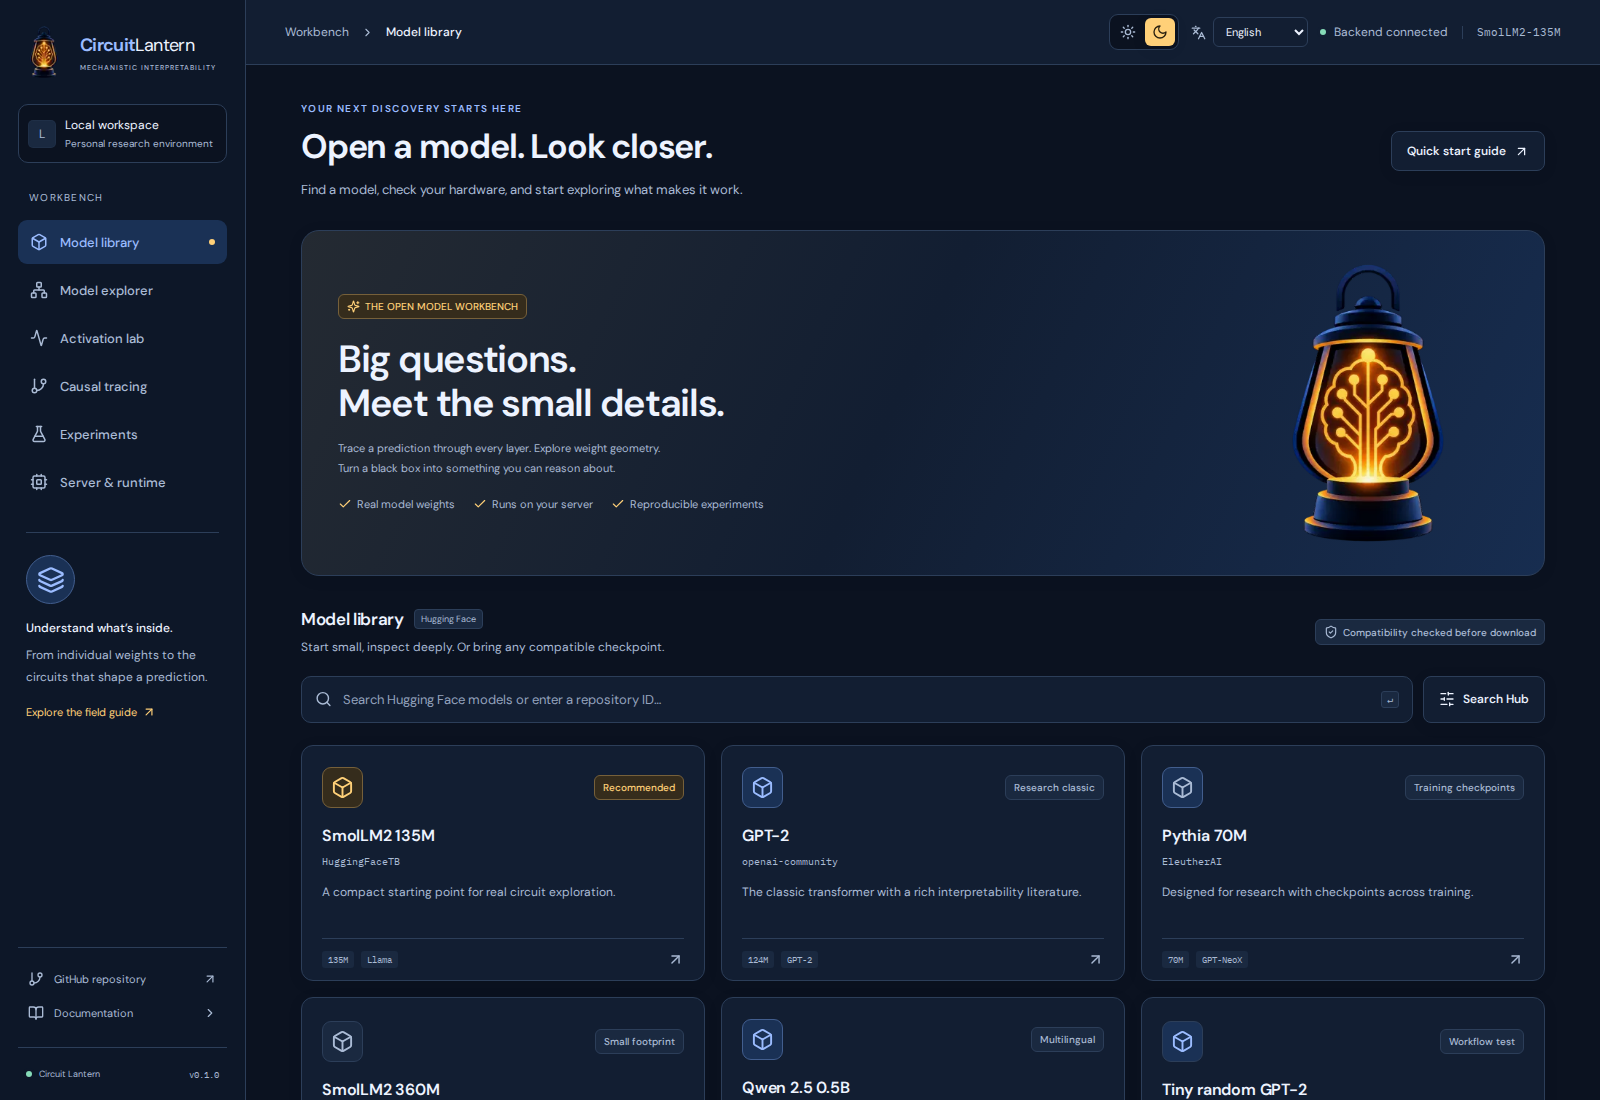
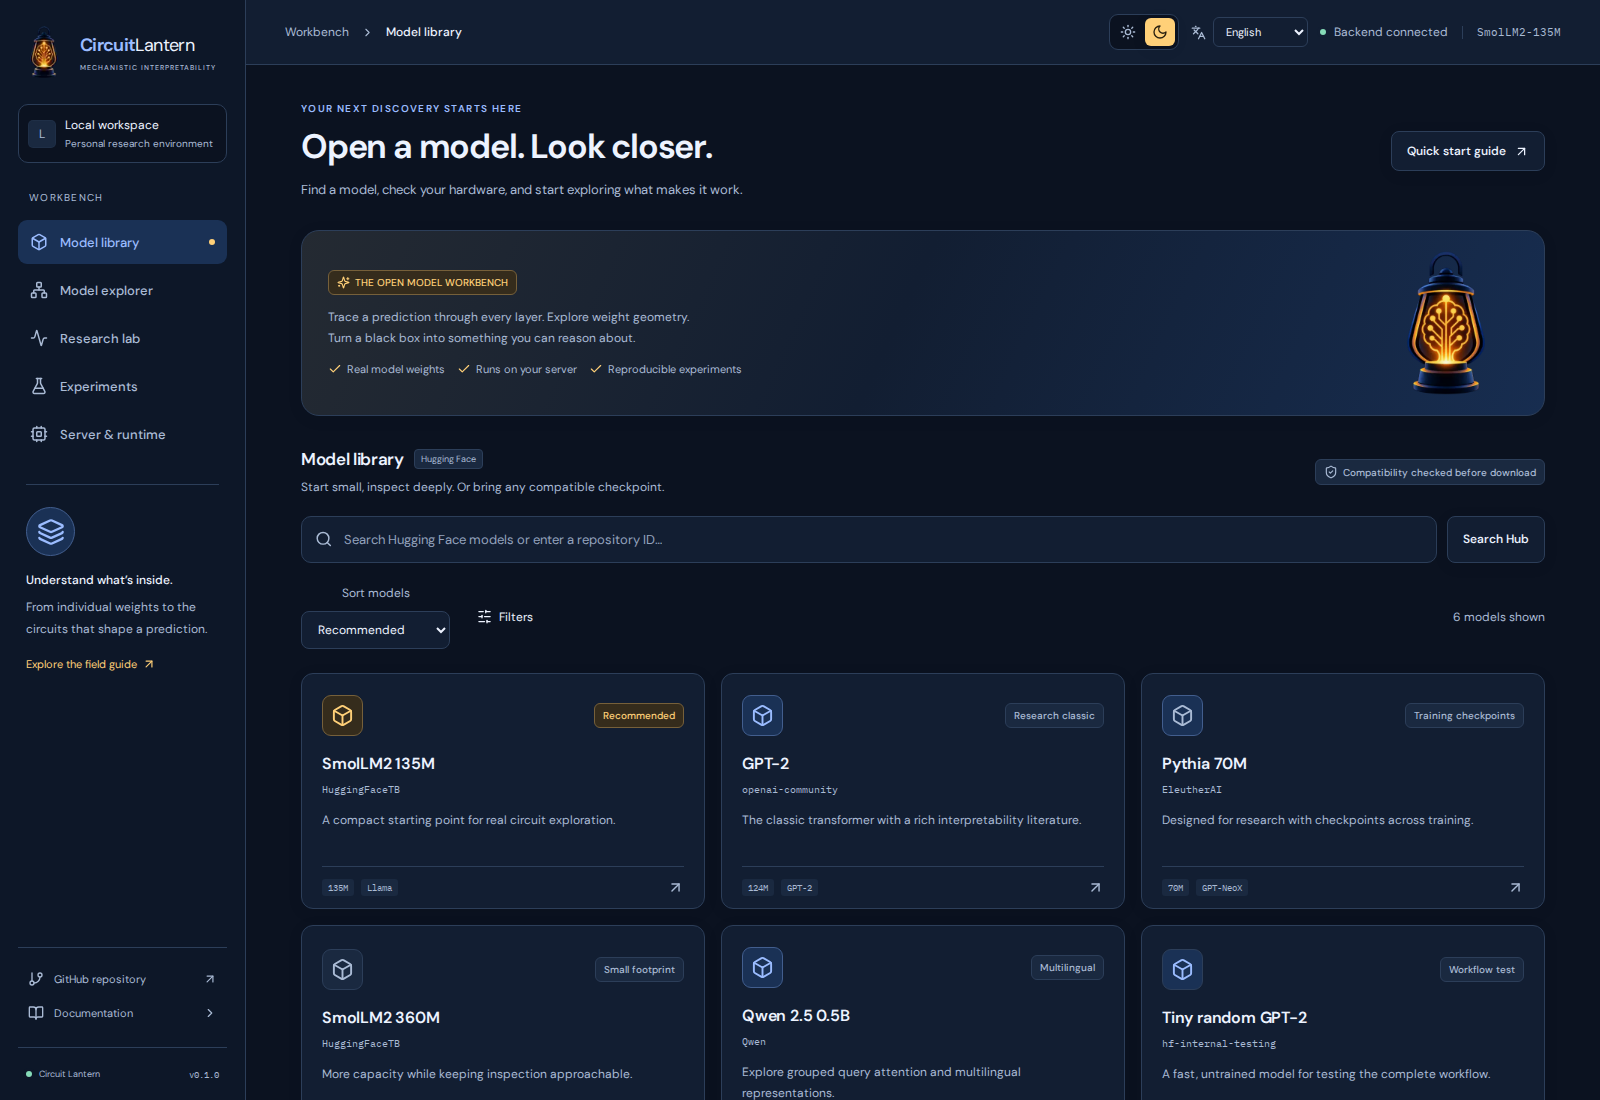
Showcase checkpoint and sparse feature workflows

diff --git a/README.md b/README.md
@@ -13,11 +13,14 @@ Check the hardware, load a model, follow a prompt through its layers and keep th
 
 ## What you can investigate
 
-- **Hardware fit.** Check available RAM, VRAM, disk space, GPU architecture and execution kernels before downloading. Quantization support depends on the device and runtime, not just model size.
-- **Weight geometry.** Zoom into transformer blocks, select logical matrices and inspect singular values, spectral radius, norms, rank, distributions and spectral energy.
-- **Prompt traces.** Trace residual streams, token activation norms, intermediate predictions, full vocabulary confidence, entropy and attention routing. Explore individual prompt positions without another forward pass.
-- **Causal interventions.** Restore clean residual activations in corrupted prompts or zero individual attention heads. Inspect target score changes, recovery and distribution divergence, with completed measurements retained when a sweep stops.
-- **Research notebook.** Save traces, matrix analyses and sweeps with checkpoint revisions, execution settings and observations. Compare saved evidence and export the original records with derived measurements, even after unloading the model.
+- **Model discovery.** Browse Hugging Face models by trending score, downloads, likes or recency. Narrow the results by author, date window and popularity.
+- **Hardware fit.** Check RAM, VRAM, disk space, GPU architecture and execution kernels before downloading. Quantization support depends on the device and runtime, not just model size.
+- **Weight geometry.** Follow attention, MLP and residual connections inside transformer blocks. Select logical matrices to inspect singular values, spectral radius, norms, rank, distributions and spectral energy.
+- **Prompt traces.** Follow residual streams, intermediate predictions, vocabulary confidence, entropy and attention routing. Explore captured token positions without another forward pass.
+- **Checkpoint changes.** Compare a base model with a finetuned version using retained weights, layer activations and final output distributions. Keep both revisions and execution settings with the results.
+- **Sparse features.** Train ReLU or TopK sparse autoencoders from a text corpus. Inspect held out reconstruction, activating contexts and feature interventions, then save graphs of measured downstream effects.
+- **Causal interventions.** Restore clean residual activations in corrupted prompts or zero attention heads. Inspect target score changes, recovery and distribution divergence, with completed measurements retained when a sweep stops.
+- **Research notebook.** Save traces, matrix analyses and sweeps with checkpoint revisions, execution settings and observations. Compare saved evidence and export the source records after unloading the model.
 
 ## Run locally
 
@@ -38,21 +41,29 @@ For Docker with explicit GPU access, run `python3 scripts/deploy.py --gpus 0 --p
 
 ## Inside the lab
 
-![Zoomable transformer graph with a selected block and its weight matrices](docs/images/model-explorer.png)
+![Attention dataflow showing Q, K, V projections, the output matrix and the residual connection](docs/images/block-dataflow-attention.png)
+
+[Model overview](docs/images/model-explorer.png) · [MLP connections](docs/images/block-dataflow-mlp.png) · [Dark theme](docs/images/block-dataflow-dark.png)
 
 | Deployment checks | Weight geometry |
 | --- | --- |
-| [![Hardware-aware deployment report](docs/images/deployment-check.png)](docs/images/deployment-check.png) | [![Logical weight heatmap, singular values and matrix properties](docs/images/weight-analysis.png)](docs/images/weight-analysis.png) |
+| [![Hardware and kernel compatibility report before model loading](docs/images/deployment-check.png)](docs/images/deployment-check.png) | [![Logical weight heatmap, singular values and matrix properties](docs/images/weight-analysis.png)](docs/images/weight-analysis.png) |
 | Check the selected device, execution format and memory budget. | Explore structure and spectra without a wall of individual numbers. |
 | **Residual streams** | **Causal comparisons** |
-| [![Residual magnitudes, prediction uncertainty and token by layer activation heatmap](docs/images/activation-lab.png)](docs/images/activation-lab.png) | [![Saved residual patch sweeps comparing token positions and recovery](docs/images/causal-comparison.png)](docs/images/causal-comparison.png) |
-| Follow a prompt through the model's captured internal states. | Compare patch positions against a shared baseline and keep the source evidence. |
+| [![Residual magnitudes, prediction uncertainty and token activation heatmap](docs/images/activation-lab.png)](docs/images/activation-lab.png) | [![Measured residual patch effects and recovery across transformer blocks](docs/images/causal-comparison.png)](docs/images/causal-comparison.png) |
+| Follow a prompt through the model's captured internal states. | Compare patch positions against a shared baseline and retain the evidence. |
+| **Sparse dictionaries** | **Feature circuits** |
+| [![Trained sparse dictionary with held out metrics and activating contexts](docs/images/sparse-features.png)](docs/images/sparse-features.png) | [![Measured effects of feature ablations on downstream features and a target prediction](docs/images/feature-circuit.png)](docs/images/feature-circuit.png) |
+| Inspect learned directions, examples and reconstruction quality. | Test a feature hypothesis through interventions and saved output effects. |
+| **Hub discovery** | **Checkpoint comparison** |
+| [![Hugging Face discovery with trending models and ranking controls](docs/images/hub-trending.png)](docs/images/hub-trending.png) | [![Base and instruct checkpoint comparison with weight deltas and residual drift](docs/images/checkpoint-comparison.png)](docs/images/checkpoint-comparison.png) |
+| Find a checkpoint using familiar rankings and focused filters. | Measure weight, residual and prediction changes between model versions. |
 
-Screenshots use a trained SmolLM2 135M checkpoint. Open any preview for the full image.
+Measurements shown here use trained SmolLM2 135M base and instruct checkpoints. Screenshots capture a normal viewport with the complete sidebar. Open any preview for the full image.
 
 ## Know what you are measuring
 
-Intermediate logit lens predictions are diagnostic projections. Attention patterns describe routing and do not establish causal importance. Matrix analyses distinguish exact measurements from spectral estimates, and missing results remain unavailable.
+Intermediate logit lens predictions are diagnostic projections. Attention patterns describe routing and do not establish causal importance. Feature circuit edges measure downstream ablation effects, not direct causal connections. Checkpoint comparisons assume aligned model coordinates. Matrix analyses distinguish exact measurements from estimates, and missing results remain unavailable.
 
 Execution supports FP32, FP16, BF16, bitsandbytes NF4, native bitsandbytes FP4 checkpoints and LLM.int8 on supported CPU or CUDA paths. Native FP8 and NVFP4 analysis adapters remain pending. NVFP4 requires Blackwell hardware as well as a compatible runtime.
 
@@ -60,6 +71,8 @@ Execution supports FP32, FP16, BF16, bitsandbytes NF4, native bitsandbytes FP4 c
 
 - [Setup](docs/setup.md) covers CUDA installation, configuration and remote access.
 - [Measurements](docs/measurements.md) explains capture conventions, interventions and comparisons.
+- [Sparse features](docs/features.md) covers dictionary training, validation, interventions and research references.
+- [Checkpoint comparisons](docs/checkpoints.md) explains retained references, alignment checks and model drift.
 - [Development](docs/development.md) covers checks and browser verification.
 - [Architecture](docs/architecture.md) describes the service boundaries and current limits.
 
